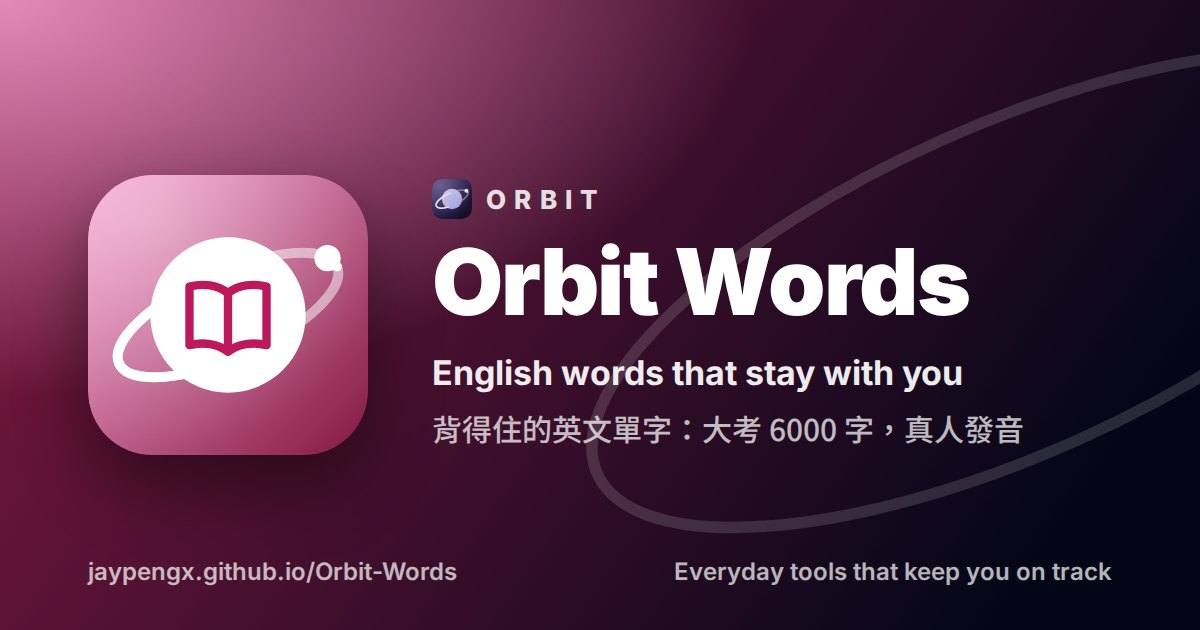
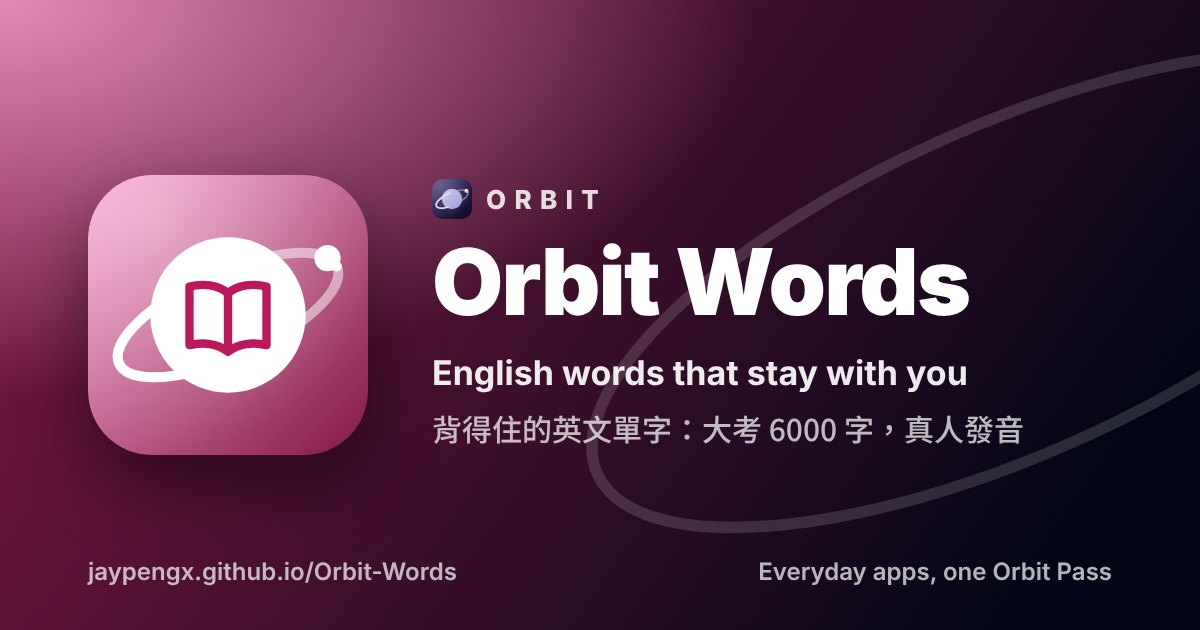
Quadra is now Orbit: Orbit Pass, Orbit Securities, one family; kit orbit.mjs/orbit.css, ORBIT_KIT, orbit.* keys
Claude-Session: https://claude.ai/code/session_017Z8MjamomJpVEaRoiMWmHA

diff --git a/public/index.html b/public/index.html
@@ -44,21 +44,21 @@
 <link rel="preconnect" href="https://orbit-workers-proxy.pengzjay.workers.dev" crossorigin />
 <!-- kit:head: where the app's stylesheets end, before any module. The kit
      comes from one place for every app (Shared-Proxy's GitHub Pages, same
-     site as the apps), each file at the hash this device last saw (quadra.kit
-     and quadra.kitFiles, noted from the kit's version.json by boot.js and
-     quadra.mjs kitLatest; on a first visit the hashes the app's deploy
+     site as the apps), each file at the hash this device last saw (orbit.kit
+     and orbit.kitFiles, noted from the kit's version.json by boot.js and
+     orbit.mjs kitLatest; on a first visit the hashes the app's deploy
      baked in, the `null` at the end), so a change to the kit is one push
      to Shared-Proxy and a phone downloads only the files it changed. A kit
      file newer than the app's deploy (not in its list) is mapped from those
      hashes too, never left at a bare address the browser keeps 10 minutes. -->
-<script>!function(b,d,v,h,n,m,f,i,u){try{v=localStorage.getItem('quadra.kit')||'';h=JSON.parse(localStorage.getItem('quadra.kitFiles')||'null')}catch(e){v=''}n=!!v;if(!n&&d){v=d.version;h=d}h=h&&h.version===v?h.files:null;u=function(x){var k=h&&h[x];return b+x+(k?'?v='+k:v?'?v='+encodeURIComponent(v):'')};m={'#kit/':b};f=['brand.mjs','catalog.mjs','devconfig.mjs','f1live.mjs','format.mjs','gov.mjs','help.mjs','holidays.mjs','lang.mjs','loan.mjs','logos.mjs','mirror.mjs','names.mjs','pass-sync.mjs','pass.mjs','photo-urls.mjs','photos.mjs','play-alive.mjs','play-bets.mjs','play-board.mjs','play-boardfile.mjs','play-cashout.mjs','play-house.mjs','play-kambi.mjs','play-lines.mjs','play-live.mjs','play-lottery.mjs','play-markets.mjs','play-odds.mjs','play-offers.mjs','play-players.mjs','play-propmodel.mjs','play-props.mjs','play-recommend.mjs','play-rules.mjs','play-schedules.mjs','play-scratch.mjs','play-sources.mjs','play-teams.mjs','plus.mjs','postseason.mjs','quadra.mjs','settle.mjs','sports-broadcast.mjs','sports-espn.mjs','sports-highlights.mjs','sports-winprob.mjs','stock-account.mjs','stock-bonds.mjs','stock-codec.mjs','stock-credit.mjs','stock-hk-lots.mjs','stock-holidays.mjs','stock-ipo.mjs','stock-jp-lists.mjs','stock-markets.mjs','stock-quotes.mjs','stock-savings.mjs','truth.mjs','ui.mjs'];for(i=0;i<f.length;i++)m['#kit/'+f[i]]=u(f[i]);if(h)for(i in h)/\.mjs$/.test(i)&&(m['#kit/'+i]=u(i));window.QUADRA_KIT={base:b,version:v,noted:n,url:u};document.write('<script type="import'+'map">'+JSON.stringify({imports:m})+'<\/script><link rel="stylesheet" href="'+u('quadra.css')+'"><link rel="modulepreload" href="'+u('quadra.mjs')+'"><link rel="modulepreload" href="'+u('brand.mjs')+'">')}('../Shared-Proxy/kit/',null)</script>
+<script>!function(b,d,v,h,n,m,f,i,u){try{v=localStorage.getItem('orbit.kit')||'';h=JSON.parse(localStorage.getItem('orbit.kitFiles')||'null')}catch(e){v=''}n=!!v;if(!n&&d){v=d.version;h=d}h=h&&h.version===v?h.files:null;u=function(x){var k=h&&h[x];return b+x+(k?'?v='+k:v?'?v='+encodeURIComponent(v):'')};m={'#kit/':b};f=['brand.mjs','catalog.mjs','dayoff.mjs','devconfig.mjs','f1live.mjs','format.mjs','gov.mjs','help.mjs','holidays.mjs','lang.mjs','loan.mjs','logos.mjs','mirror.mjs','names.mjs','orbit.mjs','pass-sync.mjs','pass.mjs','photo-urls.mjs','photos.mjs','play-alive.mjs','play-bets.mjs','play-board.mjs','play-boardfile.mjs','play-house.mjs','play-kambi.mjs','play-lines.mjs','play-live.mjs','play-lottery.mjs','play-markets.mjs','play-odds.mjs','play-offers.mjs','play-players.mjs','play-props.mjs','play-recommend.mjs','play-rules.mjs','play-schedules.mjs','play-scratch.mjs','play-sources.mjs','play-teams.mjs','postseason.mjs','settle.mjs','sports-broadcast.mjs','sports-espn.mjs','sports-highlights.mjs','sports-winprob.mjs','stock-account.mjs','stock-bonds.mjs','stock-codec.mjs','stock-credit.mjs','stock-hk-lots.mjs','stock-holidays.mjs','stock-ipo.mjs','stock-jp-lists.mjs','stock-markets.mjs','stock-quotes.mjs','stock-savings.mjs','ui.mjs'];for(i=0;i<f.length;i++)m['#kit/'+f[i]]=u(f[i]);if(h)for(i in h)/\.mjs$/.test(i)&&(m['#kit/'+i]=u(i));window.ORBIT_KIT={base:b,version:v,noted:n,url:u};document.write('<script type="import'+'map">'+JSON.stringify({imports:m})+'<\/script><link rel="stylesheet" href="'+u('orbit.css')+'"><link rel="modulepreload" href="'+u('orbit.mjs')+'"><link rel="modulepreload" href="'+u('brand.mjs')+'">')}('../Shared-Proxy/kit/',null)</script>
 <!-- /kit:head -->
 <link rel="stylesheet" href="./styles.css" />
 </head>
 <body>
 <div id="loading" data-title="Orbit Words"></div>
 <!-- kit:boot: right after <div id="loading">. -->
-<script>document.write('<script src="'+QUADRA_KIT.url('boot.js')+'"><\/script>')</script>
+<script>document.write('<script src="'+ORBIT_KIT.url('boot.js')+'"><\/script>')</script>
 <!-- /kit:boot -->
 <header class="q-appbar">
   <div class="q-appbar-inner">

diff --git a/public/app.js b/public/app.js
@@ -8,12 +8,12 @@
 //
 // This file starts the app, saves and opens tabs; the screens are views/*.js,
 // the teaching lib/*.mjs. It uses no money: the progress is its own payload
-// on the Quadra Pass. The pass itself (looks, the truth about money,
-// every app's guide) is the kit's Quadra Pass sheet, in every app. (It was
-// Quadra Hub; its id stays `vocab`, its storage and caches `quadra-hub`.)
+// on the Orbit Pass. The pass itself (looks, the truth about money,
+// every app's guide) is the kit's Orbit Pass sheet, in every app. (It was
+// Orbit Words; its id stays `vocab`, its storage and caches `orbit-words`.)
 import * as kitUI from '#kit/ui.mjs';
 import { passSync } from '#kit/pass-sync.mjs';
-import { quadraSession, taipeiDay, tabBar, topActions, installGate, watchUpdates, schedulePush, notify, keepOffline, storedAccount, cachedPayload } from '#kit/quadra.mjs';
+import { orbitSession, taipeiDay, tabBar, topActions, installGate, watchUpdates, schedulePush, notify, keepOffline, storedAccount, cachedPayload } from '#kit/orbit.mjs';
 import { loadWords, loadHints, keyOf } from './lib/words.mjs';
 import { DAILY_GOAL, streakAtRisk } from './lib/practice.mjs';
 import { catCounts } from './lib/review.mjs';
@@ -33,7 +33,7 @@ const TABS = ['today', 'review', 'list', 'progress'];
 const VIEWS = { today: renderToday, review: renderReview, list: renderBrowse, progress: renderProgress };
 const VERSION = document.querySelector('meta[name="build-version"]')?.content || 'dev';
 
-const q = quadraSession('vocab', { lang: locale });
+const q = orbitSession('vocab', { lang: locale });
 
 // ---- Saved progress (the pass's vocab payload, gzipped: lib/copy.mjs) ----------------------
 
@@ -117,7 +117,7 @@ const quietRefresh = () => !busy() && !(document.activeElement?.tagName === 'INP
 
 window.__fxStarted = true;
 const gated = installGate('vocab', locale);
-watchUpdates({ current: VERSION, key: 'quadraHub', cachePrefix: 'quadra-hub-' });
+watchUpdates({ current: VERSION, key: 'orbitWords', cachePrefix: 'orbit-words-' });
 // The same top-right in every app (the guide and the pass: the kit's sheet).
 topActions(q);
 tabNav.select(state.tab);
@@ -191,7 +191,7 @@ if (!gated) boot();
 // Where the address points: a tab (#review), or a word (#word=abandon, its
 // sheet over the open tab). At start, and whenever it changes while the app
 // is open (a link, a notice's tap). A guide (#help=…) is the kit's: it opens
-// the Quadra Pass sheet.
+// the Orbit Pass sheet.
 function openFromHash(start = false) {
   const hash = decodeURIComponent(location.hash.slice(1));
   const word = hash.startsWith('word=') ? state.byKey.get(keyOf(hash.slice(5))) : null;

diff --git a/public/views/session.js b/public/views/session.js
@@ -16,7 +16,7 @@ import { LEVELS, pickRound, spread, toStudy, smartType, retryType, markKnown, ma
 import { answerXp, xpText, logAnswer, logResult } from '../lib/practice.mjs';
 import { openWord, starButton, missNote, tipBox, speltRow } from './sheet.js';
 
-const buzz = () => globalThis.quadraHaptic?.();
+const buzz = () => globalThis.orbitHaptic?.();
 export const busy = () => Boolean(state.session && !(state.session.kind === 'round' && state.session.done));
 const end = () => ((state.session = null), hooks.sync(), hooks.render());
 

diff --git a/public/sw.js b/public/sw.js
@@ -7,8 +7,8 @@
 // each one kept, so a word heard before plays without asking the network.
 // Pictures from other sites: the kit's shared picture cache (sw-images.js).
 const isAudio = url => url.pathname.includes('/data/audio/');
-self.QUADRA_SW = {
-  cache: 'quadra-hub-v1',
+self.ORBIT_SW = {
+  cache: 'orbit-words-v1',
   title: 'Orbit Words',
   route: (request, url) => (isAudio(url) ? 'cacheFirst' : null),
   prune: url => !isAudio(url)

diff --git a/public/styles.css b/public/styles.css
@@ -1,4 +1,4 @@
-/* Orbit Words. The kit draws the frame (quadra.css: tokens, the tab bar,
+/* Orbit Words. The kit draws the frame (orbit.css: tokens, the tab bar,
    sheets, segmented controls, and its premium layer: page heads, hero cards,
    tiles, row cards, tags, stats). This file is the app's rose and its own
    pieces, by screen: shared bits, 今天, the round's sheet, 複習 and 單字,

diff --git a/public/views/chrome.js b/public/views/chrome.js
@@ -1,5 +1,5 @@
 // The pieces every screen is drawn with: the kit's premium classes
-// (quadra.css "Premium layer": q-page-head, q-hero-card, q-tile, q-rowcard,
+// (orbit.css "Premium layer": q-page-head, q-hero-card, q-tile, q-rowcard,
 // q-tag, q-stats, q-ambient) written as markup; plus this app's own few
 // glyphs (a speaker, cards, sliders).
 import * as kitUI from '#kit/ui.mjs';

diff --git a/public/ui.js b/public/ui.js
@@ -1,4 +1,4 @@
-// The small pieces every tab draws with (the kit's controls, kit/ui.mjs and quadra.css).
+// The small pieces every tab draws with (the kit's controls, kit/ui.mjs and orbit.css).
 import { toast as kitToast, pickSeg, h } from '#kit/ui.mjs';
 
 export const el = h;

diff --git a/public/views/sheet.js b/public/views/sheet.js
@@ -40,7 +40,7 @@ let dialog = null;
 let shell = null;
 let box = null;
 let lead = null;
-const buzz = () => globalThis.quadraHaptic?.();
+const buzz = () => globalThis.orbitHaptic?.();
 
 export function openWord(word) {
   if (!word) return;

diff --git a/README.md b/README.md
@@ -1,7 +1,7 @@
 # Orbit Words
 
 English words that stay with you: the 大考中心 list, levels 1–6 (6,169
-words), each recorded in Microsoft's Jenny voice. Signs in with the Quadra
+words), each recorded in Microsoft's Jenny voice. Signs in with the Orbit
 Pass; no money in or out.
 
 Live: https://jaypengx.github.io/Orbit-Words/
